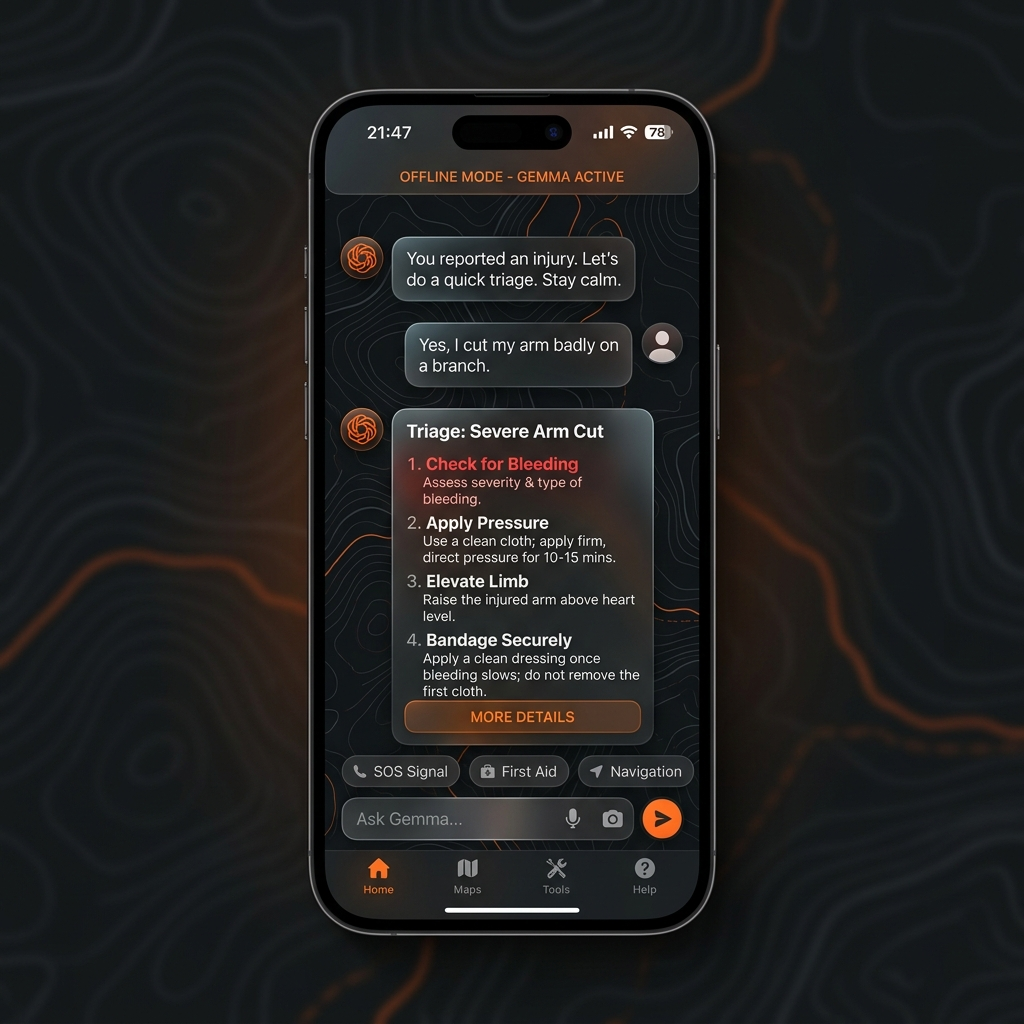
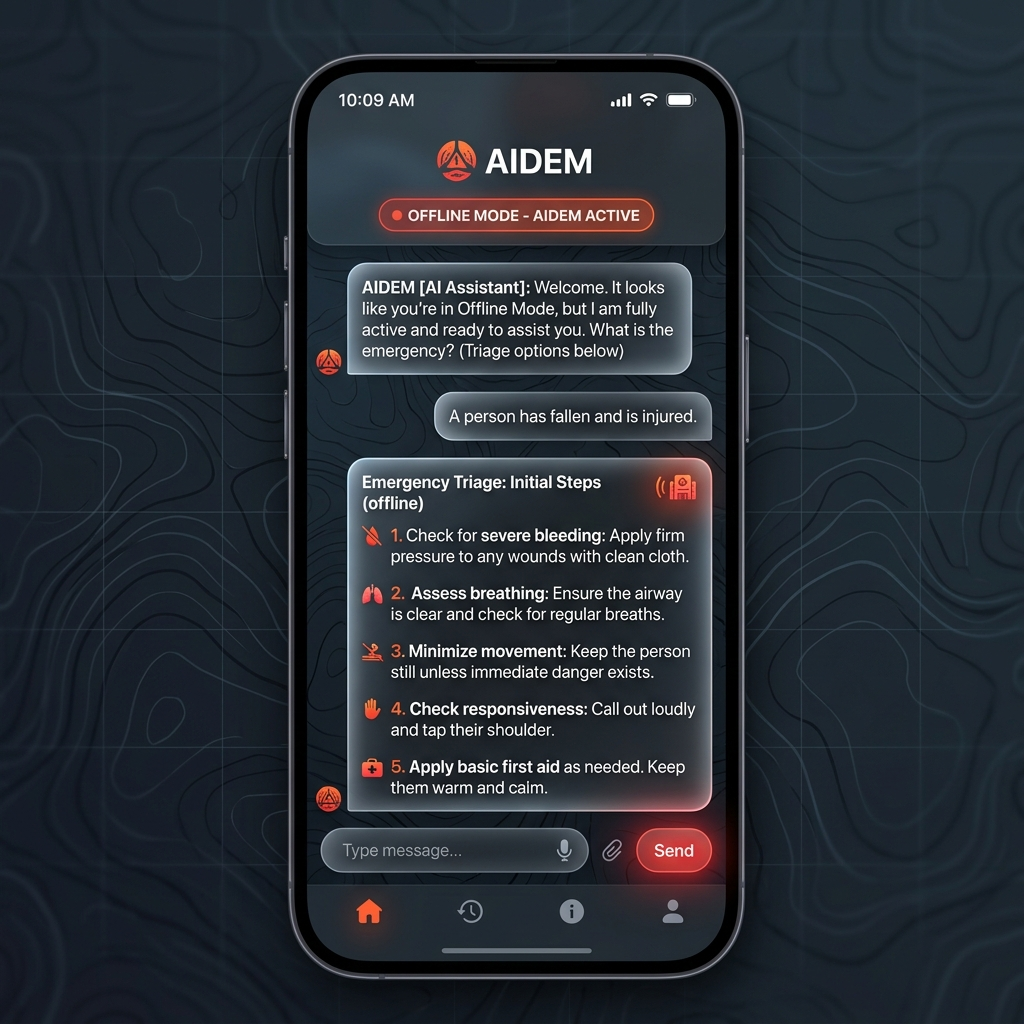
feat: rename project to AIDEM (Artificial Intelligence Disaster & Emergency Management)

diff --git a/survival_aid_app/lib/services/model_setup_service.dart b/survival_aid_app/lib/services/model_setup_service.dart
@@ -38,7 +38,7 @@ class ModelSetupState {
 class ModelSetupService extends Notifier<ModelSetupState> {
   static const String _modelFileName = 'gemma-4-e2b-it.litertlm';
   static const String _lastUsedModelKey = 'last_used_model_path';
-  static const String _defaultModelPath = r'G:\Antigravity Projects\Survival AId\Assets\Models\gemma-4-E2B-it.litertlm';
+  static const String _defaultModelPath = r'G:\Antigravity Projects\AIDEM\Assets\Models\gemma-4-E2B-it.litertlm';
   static const String _huggingFaceBaseUrl = 'https://huggingface.co/google/gemma-4-2b-it-lite-rt-gguf/resolve/main/gemma4-2b-it-lite-rt-web.zip';
 
   @override

diff --git a/survival_aid_app/lib/main.dart b/survival_aid_app/lib/main.dart
@@ -12,18 +12,18 @@ void main() async {
 
   runApp(
     const ProviderScope(
-      child: SurvivalAidApp(),
+      child: AidemApp(),
     ),
   );
 }
 
-class SurvivalAidApp extends StatelessWidget {
-  const SurvivalAidApp({super.key});
+class AidemApp extends StatelessWidget {
+  const AidemApp({super.key});
 
   @override
   Widget build(BuildContext context) {
     return MaterialApp(
-      title: 'Survival AId',
+      title: 'AIDEM',
       debugShowCheckedModeBanner: false,
       theme: ThemeData(
         scaffoldBackgroundColor: AppColors.background,

diff --git a/survival_aid_app/lib/ui/screens/model_setup_screen.dart b/survival_aid_app/lib/ui/screens/model_setup_screen.dart
@@ -73,7 +73,7 @@ class _ModelSetupScreenState extends ConsumerState<ModelSetupScreen> {
               ),
               const SizedBox(height: 12),
               const Text(
-                'Survival AId needs to download the Gemma AI model once. '
+                'AIDEM needs to download the Gemma AI model once. '
                 'After this, the app works fully offline — no internet required.',
                 style: TextStyle(color: AppColors.textSecondary, fontSize: 16, height: 1.5),
               ),

diff --git a/survival_aid_app/lib/ui/screens/settings_screen.dart b/survival_aid_app/lib/ui/screens/settings_screen.dart
@@ -21,7 +21,7 @@ class SettingsScreen extends StatelessWidget {
           _buildSettingTile(Icons.location_on_outlined, "Coordinate Format", "Decimal Degrees"),
           
           const SizedBox(height: 40),
-          _buildSectionHeader("About Survival AId"),
+          _buildSectionHeader("About AIDEM"),
           _buildSettingTile(Icons.info_outline, "Version", "1.0.0 (Offline)"),
           _buildSettingTile(Icons.verified_user_outlined, "Protocol Sources", "Red Cross, WHO, TCCC"),
           

diff --git a/survival_aid_app/integration_test/scenarios_test.dart b/survival_aid_app/integration_test/scenarios_test.dart
@@ -1,8 +1,8 @@
 import 'package:flutter/material.dart';
 import 'package:flutter_test/flutter_test.dart';
 import 'package:integration_test/integration_test.dart';
-import 'package:survival_aid_app/main.dart' as app;
-import 'package:survival_aid_app/providers/global_providers.dart';
+import 'package:aidem_app/main.dart' as app;
+import 'package:aidem_app/providers/global_providers.dart';
 import 'package:flutter_riverpod/flutter_riverpod.dart';
 
 void main() {

diff --git a/survival_aid_app/lib/providers/session_provider.dart b/survival_aid_app/lib/providers/session_provider.dart
@@ -361,7 +361,7 @@ class SessionNotifier extends Notifier<SessionState> {
     final ctx = compactionService.context;
     
     final buffer = StringBuffer();
-    buffer.writeln('# Survival AId Session Export');
+    buffer.writeln('# AIDEM Session Export');
     buffer.writeln('Generated on: ${DateTime.now().toLocal()}');
     buffer.writeln('Mode: ${state.isPracticeMode ? "PRACTICE" : "EMERGENCY"}');
     buffer.writeln();

diff --git a/survival_aid_app/lib/ui/screens/home_screen.dart b/survival_aid_app/lib/ui/screens/home_screen.dart
@@ -76,7 +76,7 @@ class _HomeScreenState extends ConsumerState<HomeScreen> {
                 mainAxisAlignment: MainAxisAlignment.center,
                 children: [
                   const Text(
-                    "Survival AId",
+                    "AIDEM",
                     style: TextStyle(
                       color: AppColors.textPrimary,
                       fontSize: 40,

diff --git a/js/main.js b/js/main.js
@@ -28,7 +28,7 @@ function renderHomeScreen() {
                 <div class="gps-dot ready"></div>
                 GPS Ready
             </div>
-            <h1 class="logo">Survival AId</h1>
+            <h1 class="logo">AIDEM</h1>
             <p class="subtitle">Offline Emergency Assistant</p>
             
             <button class="btn-emergency" onclick="startEmergency()">

diff --git a/index.html b/index.html
@@ -3,7 +3,7 @@
 <head>
     <meta charset="UTF-8">
     <meta name="viewport" content="width=device-width, initial-scale=1.0">
-    <title>Survival AId Offline</title>
+    <title>AIDEM Offline</title>
     <link rel="stylesheet" href="css/style.css">
     <link href="https://fonts.googleapis.com/css2?family=Inter:wght@400;600;800&display=swap" rel="stylesheet">
 </head>

diff --git a/survival_aid_app/lib/ui/screens/active_session_screen.dart b/survival_aid_app/lib/ui/screens/active_session_screen.dart
@@ -1,6 +1,6 @@
 import 'dart:io';
 import 'package:image_picker/image_picker.dart';
-import 'package:survival_aid_app/services/llm_service.dart';
+import 'package:aidem_app/services/llm_service.dart';
 import 'package:flutter/material.dart';
 import 'package:flutter_riverpod/flutter_riverpod.dart';
 import 'package:file_picker/file_picker.dart';

diff --git a/survival_aid_app/test/adaptive_mock_test.dart b/survival_aid_app/test/adaptive_mock_test.dart
@@ -1,5 +1,5 @@
 import 'package:flutter_test/flutter_test.dart';
-import 'package:survival_aid_app/services/llm_service.dart';
+import 'package:aidem_app/services/llm_service.dart';
 
 void main() {
   group('AdaptiveMock Response Quality Tests', () {

diff --git a/survival_aid_app/test/scenario_rules_test.dart b/survival_aid_app/test/scenario_rules_test.dart
@@ -1,5 +1,5 @@
 import 'package:flutter_test/flutter_test.dart';
-import 'package:survival_aid_app/services/llm_service.dart';
+import 'package:aidem_app/services/llm_service.dart';
 
 void main() {
   group('Emergency Scenario Detection', () {
